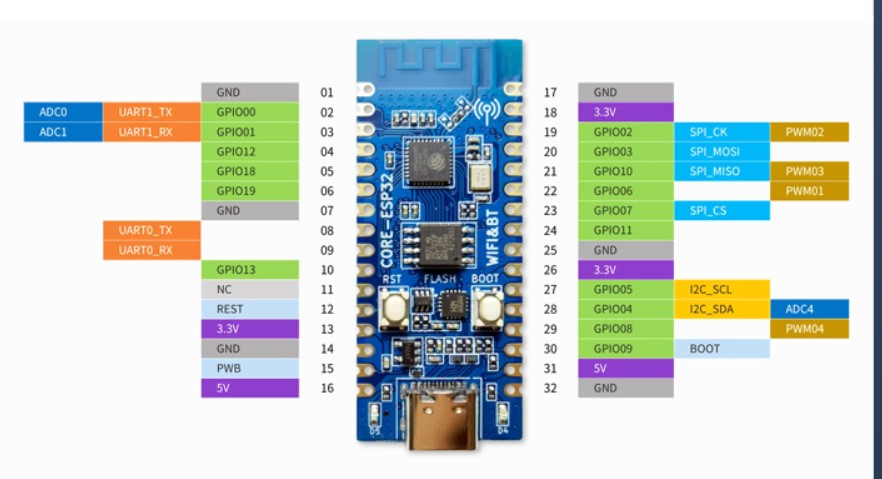
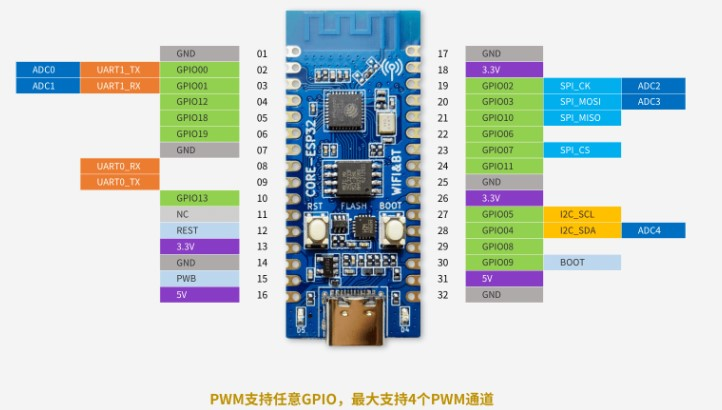
c3 minicar

diff --git a/Lab_ESP8266_32/Lab_ESP32_C3_MiniCar.md b/Lab_ESP8266_32/Lab_ESP32_C3_MiniCar.md
@@ -1,0 +1,100 @@
+# 基于ESP32-C3的Mini Car
+
+## Components
+
+* ESP32-C3 X1
+* Motor Drive：DRV8833 x1
+* IR Kit: Receiver and Remote Controller 
+  * Receiver：VS1838B x1
+  * Remote Controller: [21 Keys](https://hobbycomponents.com/wired-wireless/464-low-profile-21-button-infrared-ir-remote)  x1
+* Ultrasonic Sensor：HC-SR04 x1   
+* 2WD Robotic Car Kit (2 wheels, 2 motors, and a chassis) x1 
+* Power: 18680 X2
+
+## ESP32-C3
+
+* https://wiki.luatos.com/chips/esp32c3/board.html
+
+### 硬件资源
+
+* 尺寸长宽 21mm*51mm
+
+* 1路SPI FLASH，板载4MB，支持最高 16MB
+
+* 2路UART接口，UART0~UART1,其中下载口为UART0
+
+* 5路12比特 ADC，最高采样率 100KSPS:GPIO00,04
+
+* 1路低速SPI接口，支持主模式
+
+* 1路IIC控制器
+
+* 4路PWM接口,可使用任意GPIO
+
+* GPIO外部管脚15路，可复用
+
+* 2路贴片LED指示灯:D4,D5(GPIO12,13)
+
+* 1路复位按键+1路BOOT按键
+
+* 1路USB转TTL下载调试口
+
+* 2.4G PCB板载天线
+
+## GPIO
+![](img/esp32-c3.jpg)
+
+任意GPIO均可作为PWM脚, 编号与GPIO一致, 但同时只能开启`4路PWM`,务必注意
+
+* ADC留给模拟量：GPIO00,01,02,03,04
+* SCL,SDA留给I2C设备:GPIO 05,04
+* UART_RX,TX留给串口通讯: Pin08,09
+* boot: GPIO 09
+* USB; GPIO18,19
+* 2路贴片LED指示灯:D4,D5(GPIO12,13)
+
+小车计划使用GPIO
+* DRV8833:GPIO10,06.07,11
+
+红外和超声的GPIO待实际测试，确定使用那些
+* IR:GPIO13，使用排座接入 
+* ultrasonic:GPIO 2,18
+
+
+### 供电电源
+
+CORE-ESP32-C3核心板支持以下3种方式供电：
+
+* Type-C 接口供电（默认）
+
+* 5V和GND排针供电
+
+* 3V3 和 GND 排针供电
+
+调试过程中优先推荐的供电方式：TYPE-C USB接口供电。
+
+### 
+ESP32-C3 Pin USB Signal
+
+GPIO18 D-  白色
+
+GPIO19 D+  绿色
+
+5V  V_BUS
+
+GND  Ground
+
+## 电机驱动DEV8833
+
+## NRV8833
+
+![](img/DRV8833_Pinout.jpg)
+
+## NRV8833 layout
+
+![](img/DRV8833-Dual-Driver-Circuit.jpg)
+
+## 降压模块
+
+
+## 电源
